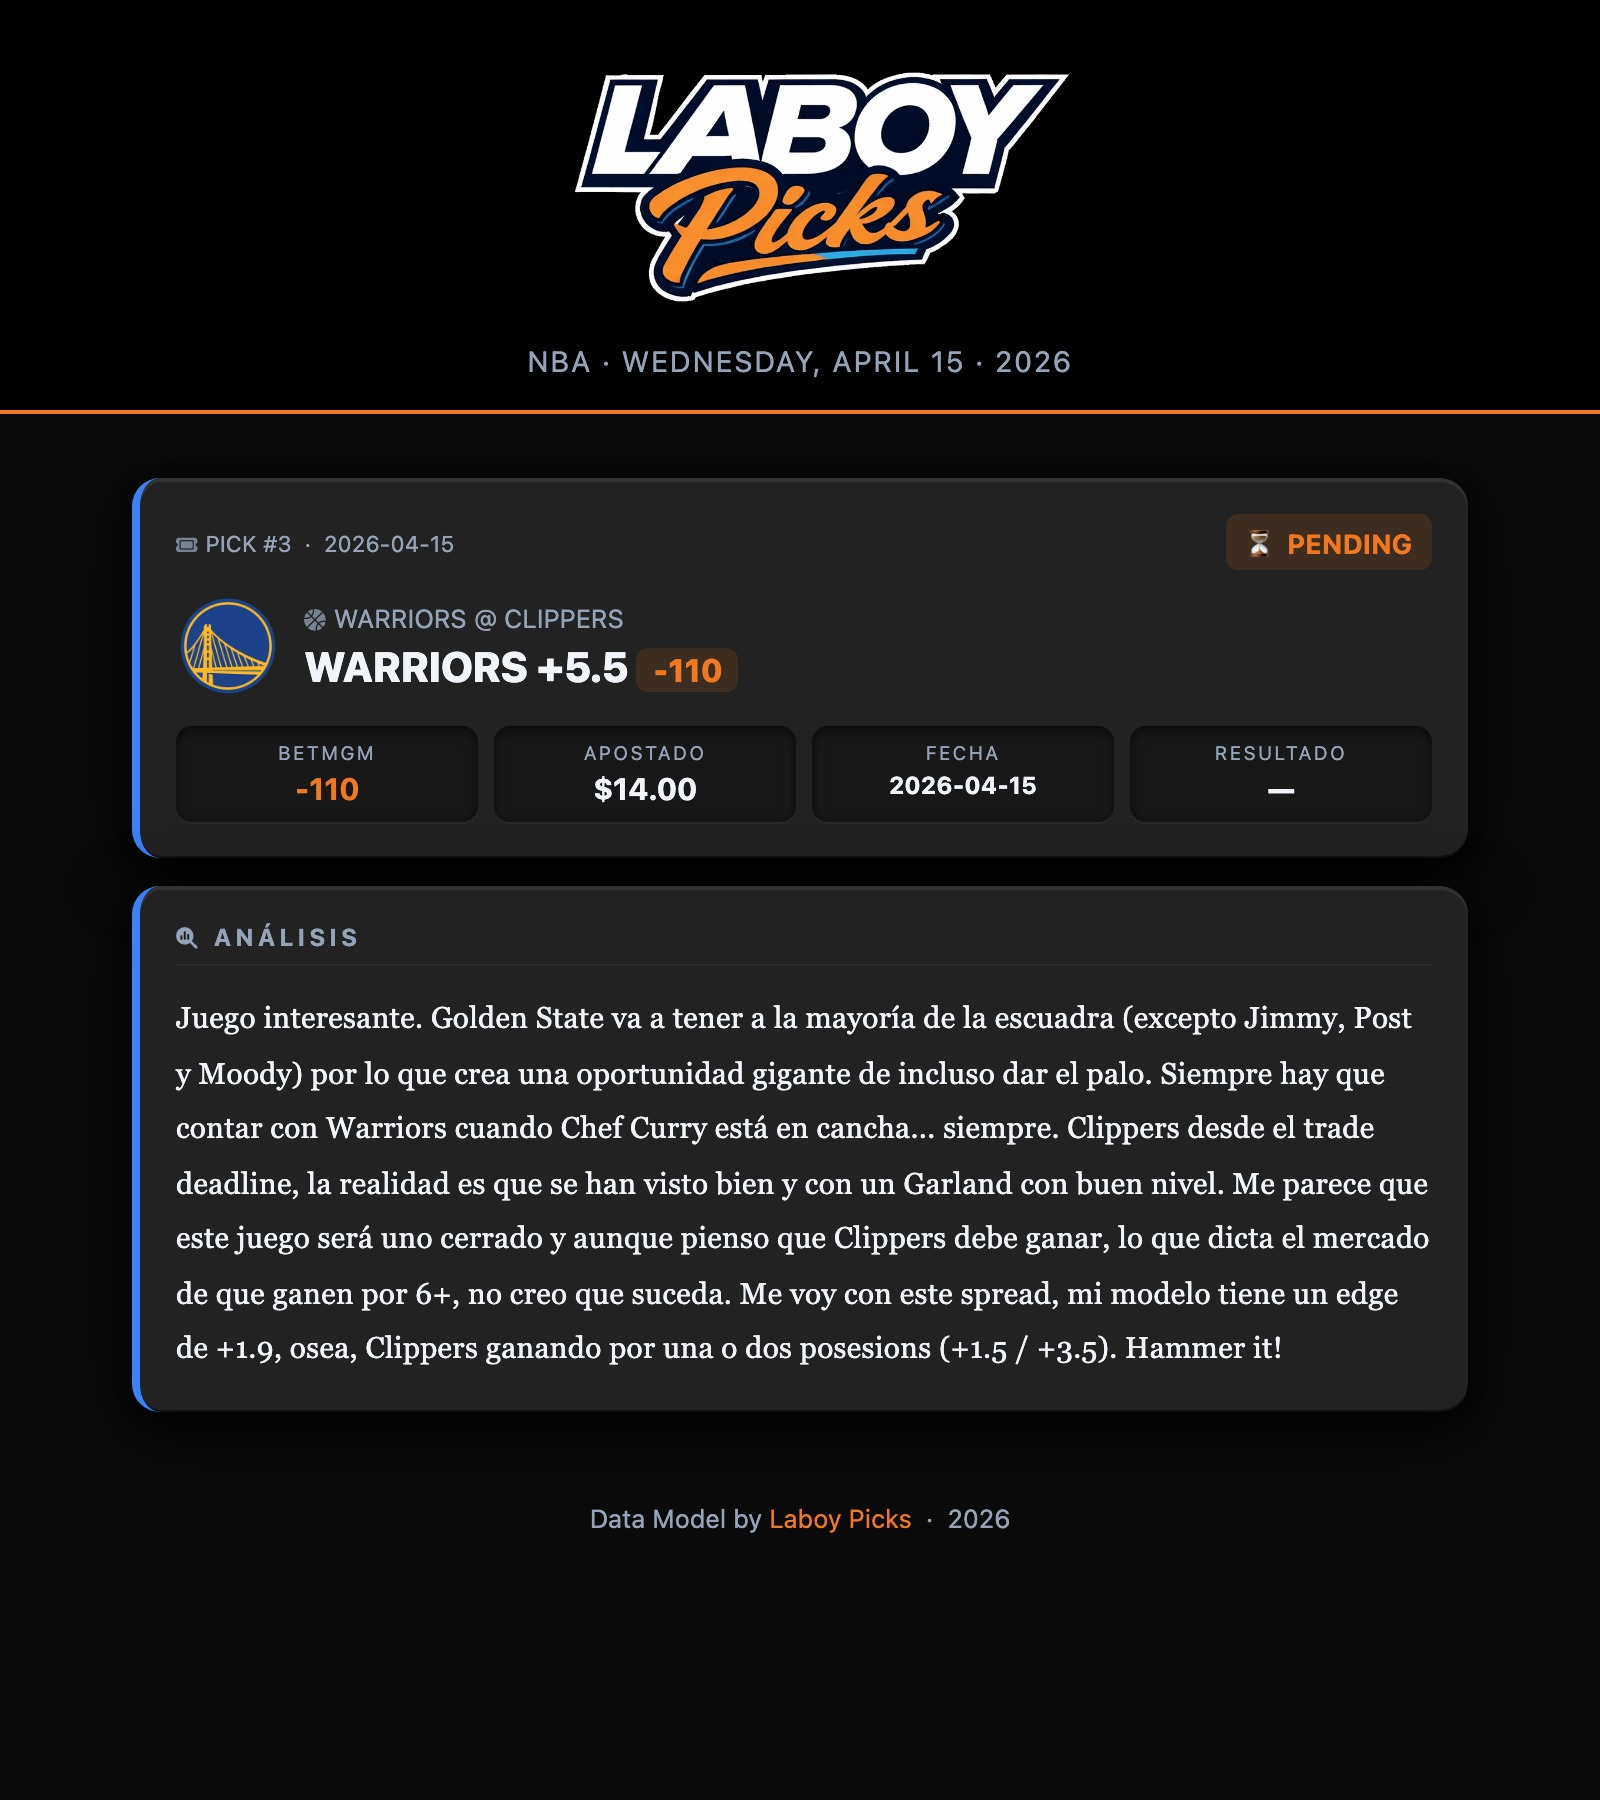
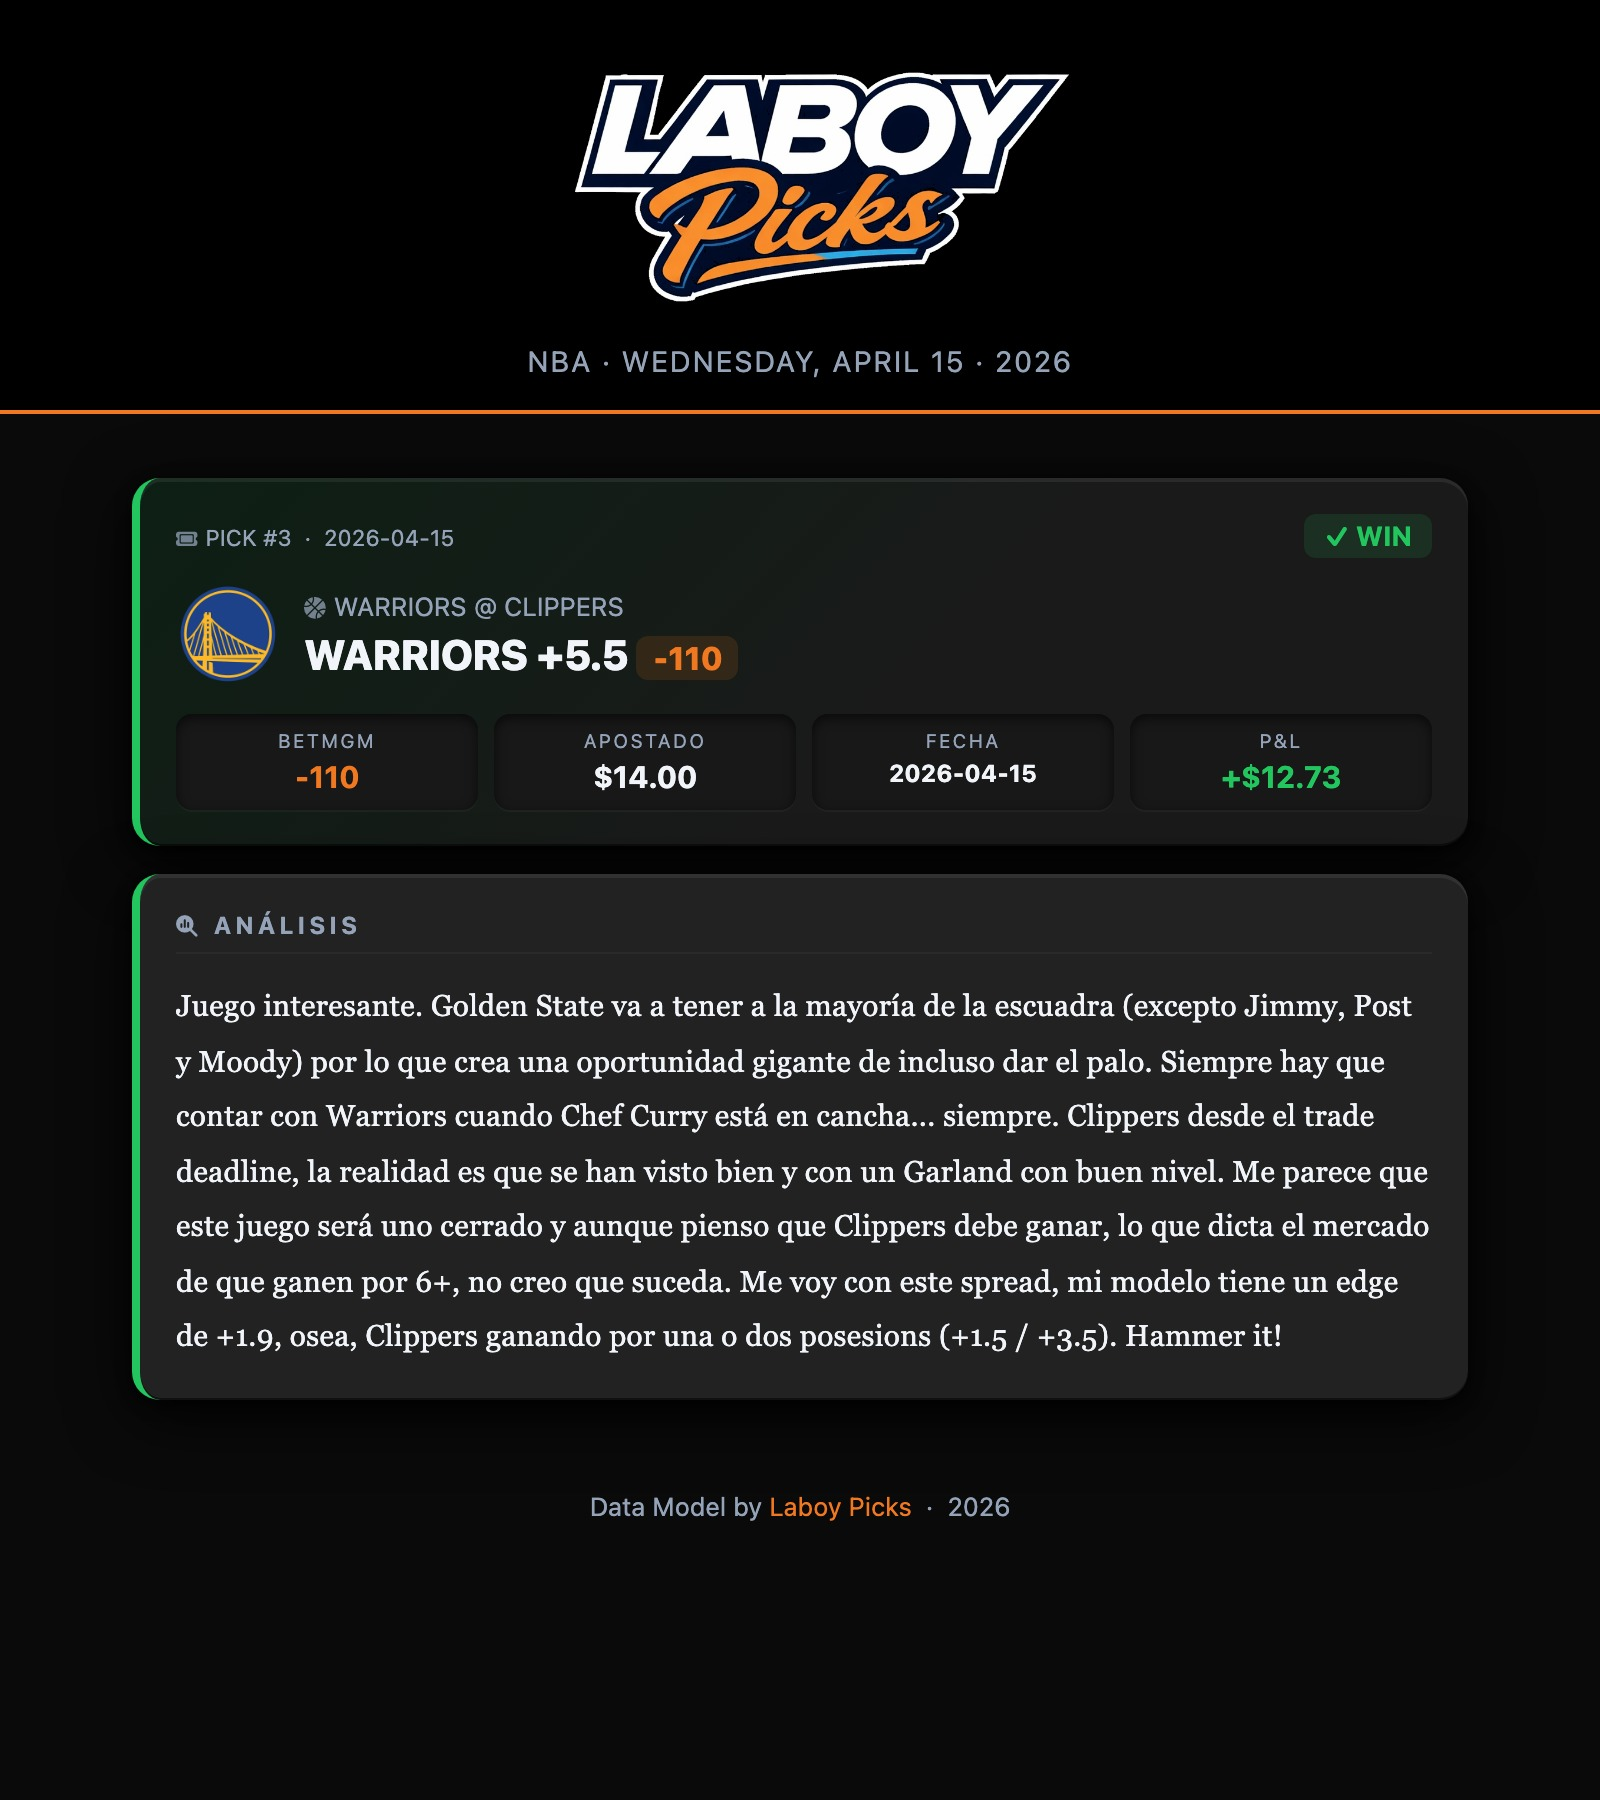
🏀 NBA 2026-04-15 — Laboy NBA Record Card 2026-04-15.html

Changed region(s): [[0.0625, 0.28, 0.9375, 0.8711], [0.75, 0.28, 0.9062, 0.3422], [0.75, 0.4044, 0.8438, 0.4356]]

diff --git a/Laboy NBA Record Card 2026-04-15.html b/Laboy NBA Record Card 2026-04-15.html
@@ -60,23 +60,61 @@
 
     <div class="section-title">🏀 MIS PICKS — NBA</div>
     
+        <div class="pick-card" style="border-left:4px solid #ef4444;background:linear-gradient(135deg,#1f0d0d 0%,#222222 60%)">
+          <div style="display:flex;justify-content:space-between;align-items:center;margin-bottom:10px">
+            <div style="font-size:0.72rem;color:var(--muted);font-weight:500">MAGIC @ 76ERS</div>
+            <span style="background:#ef444422;color:#ef4444;border-radius:6px;padding:3px 10px;font-size:0.85rem;font-weight:700">❌ LOSS</span>
+          </div>
+          <div class="teams-row" style="margin-bottom:8px">
+            <img src="https://a.espncdn.com/i/teamlogos/nba/500/orl.png" alt="ORL" width="52" height="52" style="object-fit:contain;border-radius:6px" onerror="this.style.display='none'">
+            <div class="pick-main">
+              <div class="pick-label" style="font-size:1.05rem">
+                MAGIC ML
+                <span class="odds-badge">-102</span>
+              </div>
+              <div style="font-size:0.78rem;color:var(--muted);margin-top:5px">
+                BetMGM · $12.00 · Balance: <span style="color:#ef4444;font-weight:700">-$12.00</span>
+              </div>
+            </div>
+          </div>
+        </div>
+        
+        <div class="pick-card" style="border-left:4px solid #22c55e;background:linear-gradient(135deg,#0d1f14 0%,#222222 60%)">
+          <div style="display:flex;justify-content:space-between;align-items:center;margin-bottom:10px">
+            <div style="font-size:0.72rem;color:var(--muted);font-weight:500">WARRIORS @ CLIPPERS</div>
+            <span style="background:#22c55e22;color:#22c55e;border-radius:6px;padding:3px 10px;font-size:0.85rem;font-weight:700">✅ WIN</span>
+          </div>
+          <div class="teams-row" style="margin-bottom:8px">
+            <img src="https://a.espncdn.com/i/teamlogos/nba/500/gs.png" alt="GSW" width="52" height="52" style="object-fit:contain;border-radius:6px" onerror="this.style.display='none'">
+            <div class="pick-main">
+              <div class="pick-label" style="font-size:1.05rem">
+                WARRIORS +5.5
+                <span class="odds-badge">-110</span>
+              </div>
+              <div style="font-size:0.78rem;color:var(--muted);margin-top:5px">
+                BetMGM · $14.00 · Balance: <span style="color:#22c55e;font-weight:700">+$0.73</span>
+              </div>
+            </div>
+          </div>
+        </div>
+        
 
     <div style="background:#1a1a1a;border-radius:12px;padding:16px;margin-top:24px;text-align:center">
       <div style="font-size:0.7rem;color:var(--muted);letter-spacing:1px;margin-bottom:6px">RESUMEN</div>
-      <div style="font-size:1.5rem;font-weight:900;color:#22c55e">0W · 0L · 0P</div>
-      <div style="font-size:1rem;color:var(--muted);margin-top:4px">Win% —</div>
+      <div style="font-size:1.5rem;font-weight:900;color:#22c55e">1W · 1L · 0P</div>
+      <div style="font-size:1rem;color:var(--muted);margin-top:4px">Win% 50%</div>
       <div style="display:flex;justify-content:center;gap:24px;margin-top:12px">
         <div style="text-align:center">
           <div style="font-size:0.65rem;color:var(--muted);letter-spacing:1px">P&L</div>
-          <div style="font-size:1.1rem;font-weight:800;color:#22c55e">+$0.00</div>
+          <div style="font-size:1.1rem;font-weight:800;color:#22c55e">+$0.73</div>
         </div>
         <div style="text-align:center">
           <div style="font-size:0.65rem;color:var(--muted);letter-spacing:1px">ROI</div>
-          <div style="font-size:1.1rem;font-weight:800;color:#22c55e">+0.0%</div>
+          <div style="font-size:1.1rem;font-weight:800;color:#22c55e">+2.8%</div>
         </div>
         <div style="text-align:center">
           <div style="font-size:0.65rem;color:var(--muted);letter-spacing:1px">BALANCE</div>
-          <div style="font-size:1.1rem;font-weight:800;color:#22c55e">+$0.00</div>
+          <div style="font-size:1.1rem;font-weight:800;color:#22c55e">+$0.73</div>
         </div>
       </div>
     </div>

diff --git a/dashboard-Lb9x3Kw.html b/dashboard-Lb9x3Kw.html
@@ -22,9 +22,9 @@
   <h3>Lines del Modelo</h3><ul><li><a href="https://laboywebsite-lgtm.github.io/nba-picks/Laboy%20NBA%20Lines%202026-04-15.html" target="_blank">2026-04-15</a></li>
 <li><a href="https://laboywebsite-lgtm.github.io/nba-picks/Laboy%20NBA%20Lines%202026-04-14.html" target="_blank">2026-04-14</a></li>
 </ul>
-  <h3>Model Record</h3><ul><li><a href="https://laboywebsite-lgtm.github.io/nba-picks/Laboy%20NBA%20Record%20Card%202026-04-14.html" target="_blank">2026-04-14</a></li>
-<li><a href="https://laboywebsite-lgtm.github.io/nba-picks/Laboy%20NBA%20Record%20Card%202026-04-15.html" target="_blank">2026-04-15</a></li>
+  <h3>Model Record</h3><ul><li><a href="https://laboywebsite-lgtm.github.io/nba-picks/Laboy%20NBA%20Record%20Card%202026-04-15.html" target="_blank">2026-04-15</a></li>
+<li><a href="https://laboywebsite-lgtm.github.io/nba-picks/Laboy%20NBA%20Record%20Card%202026-04-14.html" target="_blank">2026-04-14</a></li>
 </ul>
-  <p class="ts">Actualizado: 2026-04-15 19:28</p>
+  <p class="ts">Actualizado: 2026-04-16 11:53</p>
 </body>
 </html>
